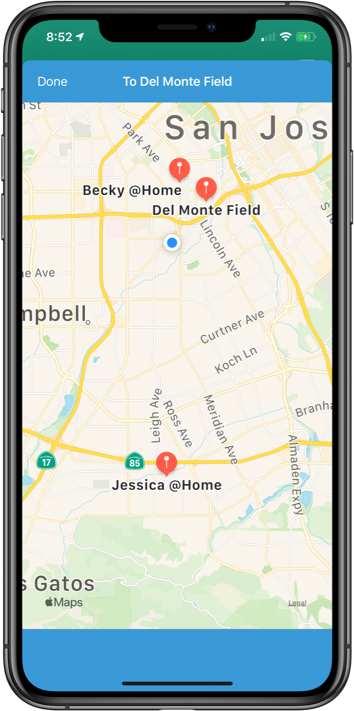
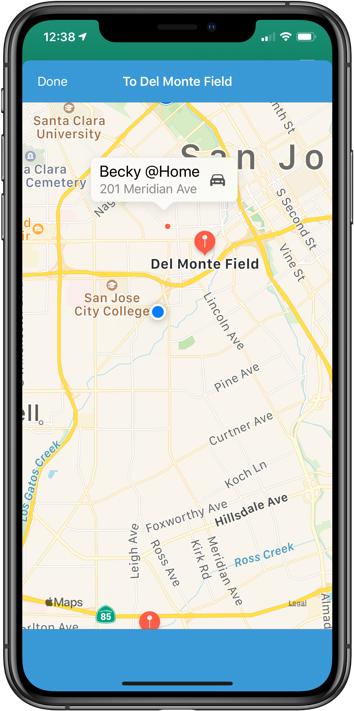
Progress

Changed region(s): [[0.0621, 0.1238, 0.9633, 0.8973], [0.1243, 0.0309, 0.2486, 0.0619], [0.839, 0.0309, 0.9011, 0.0619]]

diff --git a/carpool-kids/help/v4/events.html b/carpool-kids/help/v4/events.html
@@ -15,10 +15,11 @@
             <div class="card">
                 <div class="card-header h4">Events</div>
                 <ul class="list-group list-group-flush">
-                    <li class="list-group-item">Here you'll create, view and edit the Events for all of your Carpools. Events can be one or two-way, and can be created one at a time or as a repeating series. Each event has its own message thread, and tracks its changes so you'll always know who did what and when.</li>
+                    <li class="list-group-item">Create, view and edit the Events for all of your Carpools. Events can be one or two-way, and can be created one at a time or as a repeating series. Each event has its own message thread, and records changes so you'll always know who did what and when.</li>
                     <li class="list-group-item"><a href="#create">Create an Event</a></li>
                     <li class="list-group-item"><a href="#events_list">Events List</a></li>
-                    <li class="list-group-item"><a href="#event_edit">Edit an Event</a></li>
+                    <li class="list-group-item"><a href="#event_detail">Event Detail</a></li>
+                    <li class="list-group-item"><a href="#drivers_riders">Drivers and Riders</a></li>
                 </ul>
 
             </div>
@@ -128,7 +129,7 @@
         </div>
     </div>
 
-    <h4 class="mt-2 mb-3" id="event_edit">Edit an Event</h4>
+    <h4 class="mt-2 mb-3" id="event_detail">Event Detail</h4>
     <div class="row">
         <div class="col-6">
             <p>Tap an event in the list to view the event in detail. Tap the time indicators to switch the drive direction – remember the "To" direction is always blue, while the "From" direction is orange. Use the buttons at the bottom to take the following actions:</p>
@@ -143,24 +144,35 @@
         </div>
     </div>
 
+    <div class="row mt-4">
+        <div class="col-9">
+            <p>Tap the <mark>"New Message"</mark> button to create a message</p>
+        </div>
+        <div class="col-3">
+            <img class="rounded mt-1 mb-4" src="images/events/new_message_btn.png">
+        </div>
+    </div>
+
+
+
     <div class="row mt-2">
         <div class="col-6">
-            <p>Tap the "New Message" button to create a message. Messages are sent to all friends in the carpool, and are delivered by iOS push notification and/or e-mail, depending on each friend's notification settings. </p><p><b>Note</b>: If "Suppress Notificiations" is enabled for the Carpool, a notification will not be sent.</p>
+            <p>Messages are sent to all friends in the carpool, and are delivered by iOS push notification and/or e-mail, depending on each friend's notification settings. </p><p><b>Note</b>: If <mark>"Suppress Notifications"</mark> is enabled for the Carpool, no notification is sent, but the message is still saved.</p>
         </div>
         <div class="col-6">
-            <img class="col mt-1" src="images/events/message_create.png">
+            <img class="col mt-1 mb-4" src="images/events/message_create.png">
         </div>
     </div>
 
     <div class="row mt-4">
         <div class="col-9">
-            <p>Tap the <mark>"Message View"</mark> (speech bubble) on the upper right to view event <mark>Messages</mark> or <mark>History</mark> entries. Switch between Messages and History by tapping the switch in the list header. </p>
+            <p>Tap the <mark>"Message View"</mark> (speech bubble) on the upper right to view event <mark>Messages</mark> or <mark>History</mark> entries. Move between Messages and History by tapping the switch in the list header. </p>
         </div>
         <div class="col-3">
             <img class="rounded mt-1 " src="images/events/speech_bubble_btn.png">
         </div>
     </div>
-    <div class="row mb-4">
+    <div class="row">
         <div class="col">
             <img class="col mt-1 mb-4" src="images/events/messages_and_history.png">
         </div>
@@ -180,12 +192,58 @@
             <p>If the event is <mark>repeating</mark>, you'll be given the option to apply the changes to <mark>"Event Only"</mark> or to <mark>"This & Future Events"</mark>.</p>
             <p> <b>Note</b>: A date change is only applied to the one event even if "This & Future" is selected.</p>
         </div>
-        <div class="col-6">
+        <div class="col-6 mb-5">
             <img class="col mt-1" src="images/events/edit_event.png">
         </div>
     </div>
 
+    <div class="row">
+        <div class="col-9">
+            <p>Tap the <mark>"Duplicate"</mark> button if you want to use the current event as a template to create a new event or repeating events.</p>
+        </div>
+        <div class="col-3">
+            <img class="rounded mt-1 " src="images/events/duplicate_button.png">
+        </div>
+    </div>
 
+    <div class="row">
+        <div class="col-6">
+            <p>To duplicate, provide a date for the new event to occur. If you choose to make the duplicate <mark>"Repeating"</mark>, you also must provide <mark>"Repeat Every"</mark> and <mark>"Repeat Days"</mark> values.  </p>
+        </div>
+        <div class="col-6">
+            <img class="col mt-1 mb-4" src="images/events/event_duplicate.png">
+        </div>
+    </div>
+
+    <div class="row mt-4">
+        <div class="col-9">
+            <p>Tap the <mark>"Map"</mark> button to view a map for the current active direction (To/From).</p>
+        </div>
+        <div class="col-3">
+            <img class="rounded mt-1 " src="images/events/map_button.png">
+        </div>
+    </div>
+
+    <div class="row mt-3">
+        <div class="col-6">
+            <p>The map button will only be available <u>if the event has an address</u>. The map view contains a pin for the event address and the address of all riders who have a Default Location defined in their parent's Profile.</p>
+            <p>Tap a pin to see the address and access the <mark>"Driving Directions"</mark> button (car icon).</p>
+        </div>
+        <div class="col-6">
+            <img class="col mt-1" src="images/events/event_map.png">
+        </div>
+    </div>
+
+    <div class="row mt-4">
+        <div class="col-9">
+            <p>Tap the <mark>"Delete"</mark> button to remove the event. If the event is repeating, you'll be given the option to remove all future repeats (be careful!).</p>
+        </div>
+        <div class="col-3">
+            <img class="rounded mt-1 " src="images/events/delete_btn.png">
+        </div>
+    </div>
+
+    <h4 class="mt-2 mb-3" id="drivers_riders">Drivers and Riders</h4>
 </div>
 </body>
 </html>
